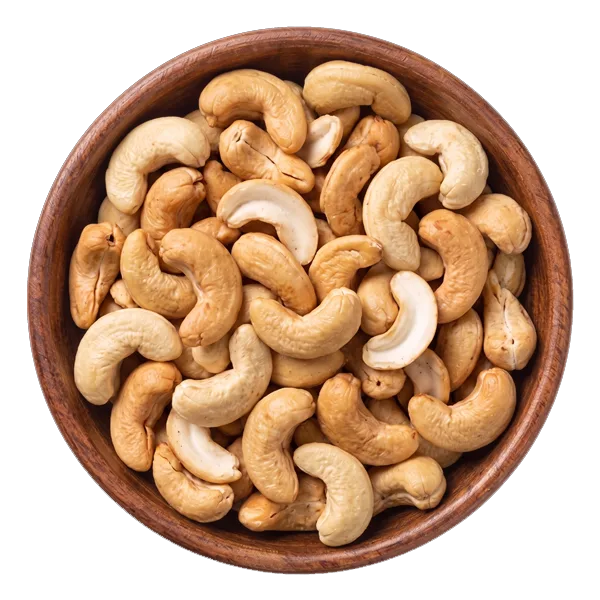
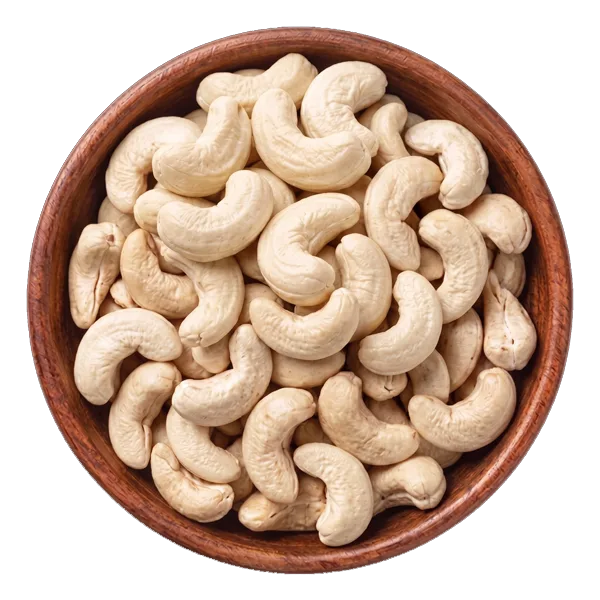
Replace cashew and kiwi photos, add black pepper photo (from Saleem)
Three wooden-bowl shots with transparent backgrounds arrived by email:
black_pepper.webp is new (the product previously fell back to its
illustration — resolver now maps pepper names and the spices category
correctly), cashews and dry kiwi replace the earlier versions with a
cache-version bump so browsers fetch the new files.

diff --git a/client/src/components/ProductImage.tsx b/client/src/components/ProductImage.tsx
@@ -20,7 +20,7 @@ export function resolveProductImagePath(name: string, categorySlug?: string): st
   // Nuts
   if (n.includes("almond") || n.includes("badam")) return "/products/almonds.webp?v=3";
   if (n.includes("walnut") || n.includes("akhrot")) return "/products/walnut.webp?v=3";
-  if (n.includes("cashew") || n.includes("kaju")) return "/products/cashews.webp?v=3";
+  if (n.includes("cashew") || n.includes("kaju")) return "/products/cashews.webp?v=4";
   if (n.includes("pista") || n.includes("pistachio")) return "/products/pistachios.webp?v=3";
 
   // Raisins
@@ -31,10 +31,11 @@ export function resolveProductImagePath(name: string, categorySlug?: string): st
   if (n.includes("apricot")) return "/products/apricot.webp?v=3";
   if (n.includes("black berry") || n.includes("blackberry") || n.includes("plum")) return "/products/blackberry_plum.webp?v=3";
   if (n.includes("blueberry")) return "/products/blueberry.webp?v=3";
-  if (n.includes("kiwi")) return "/products/dry_kiwi_green.webp?v=3";
+  if (n.includes("kiwi")) return "/products/dry_kiwi_green.webp?v=4";
   if (n.includes("amla")) return "/products/dry_sweet_amla.webp?v=3";
   if (n.includes("makhana")) return "/products/phool_makhana.webp?v=3";
   if (n.includes("chilli") || n.includes("chili") || n.includes("mirchi")) return "/products/red_chilli_powder.webp?v=3";
+  if (n.includes("pepper") || n.includes("miriyalu")) return "/products/black_pepper.webp?v=4";
   if (n.includes("coffee") || n.includes("kaapi")) return "/products/coffee.webp?v=4";
   if (n.includes("honey")) return "/products/orgonic_wild_coorg_honey.webp?v=3";
   if (n.includes("sunflower")) return "/products/sunflower_seeds.webp?v=3";
@@ -56,10 +57,10 @@ export function resolveProductImagePath(name: string, categorySlug?: string): st
   if (categorySlug === "seeds") return "/products/pumpkin_seeds.webp?v=3";
   if (categorySlug === "saffron-kesar") return "/products/saffron.webp?v=3";
   if (categorySlug === "coffee") return "/products/coffee.webp?v=4";
-  // Black pepper has no photo yet — keep its illustration rather than
-  // showing the chilli powder that represents the spices category.
   if (categorySlug === "spices") {
-    return n.includes("pepper") ? null : "/products/red_chilli_powder.webp?v=3";
+    return n.includes("pepper")
+      ? "/products/black_pepper.webp?v=4"
+      : "/products/red_chilli_powder.webp?v=3";
   }
 
   return null;
